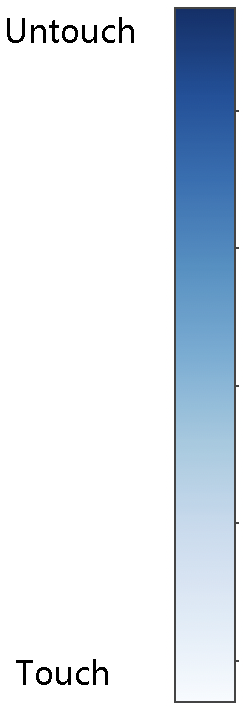
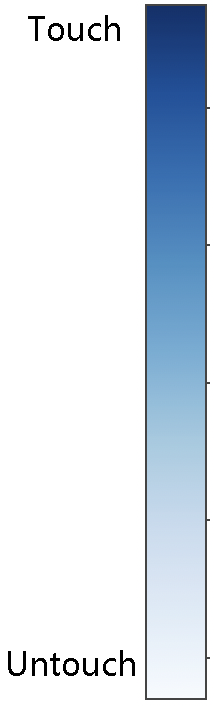
Edit heat map colours, heat map legend

diff --git a/client/src/components/heatmap/Heatmap.js b/client/src/components/heatmap/Heatmap.js
@@ -183,49 +183,49 @@ export default function Heatmap() {
               from: 0,
               to: 0,
               name: ' ',
-              color: '#d3d3d3'
+              color: '#f2f6fc'
             },
             {
               from: 1,
               to: 1,
               name: ' ',
-              color: '#e7feff'
+              color: '#dde6f3'
             },
             {
               from: 2,
               to: 2,
               name: ' ',
-              color: '#87ceeb'
+              color: '#b9cee1'
             },
             {
               from: 3,
               to: 3,
               name: ' ',
-              color: '#00bfff'
+              color: '#97b7d5'
             },
             {
               from: 4,
               to: 4,
               name: ' ',
-              color: '#4682b4'
+              color: '#6792bf'
             },
             {
               from: 5,
               to: 5,
               name: ' ',
-              color: '#0000cd'
+              color: '#4971ac'
             },
             {
               from: 6,
               to: 6,
               name: ' ',
-              color: '#00008b'
+              color: '#345698'
             },
             {
               from: 7,
               to: 7,
               name: ' ',
-              color: '#000080'
+              color: '#243c78'
             }
           ]
         }
